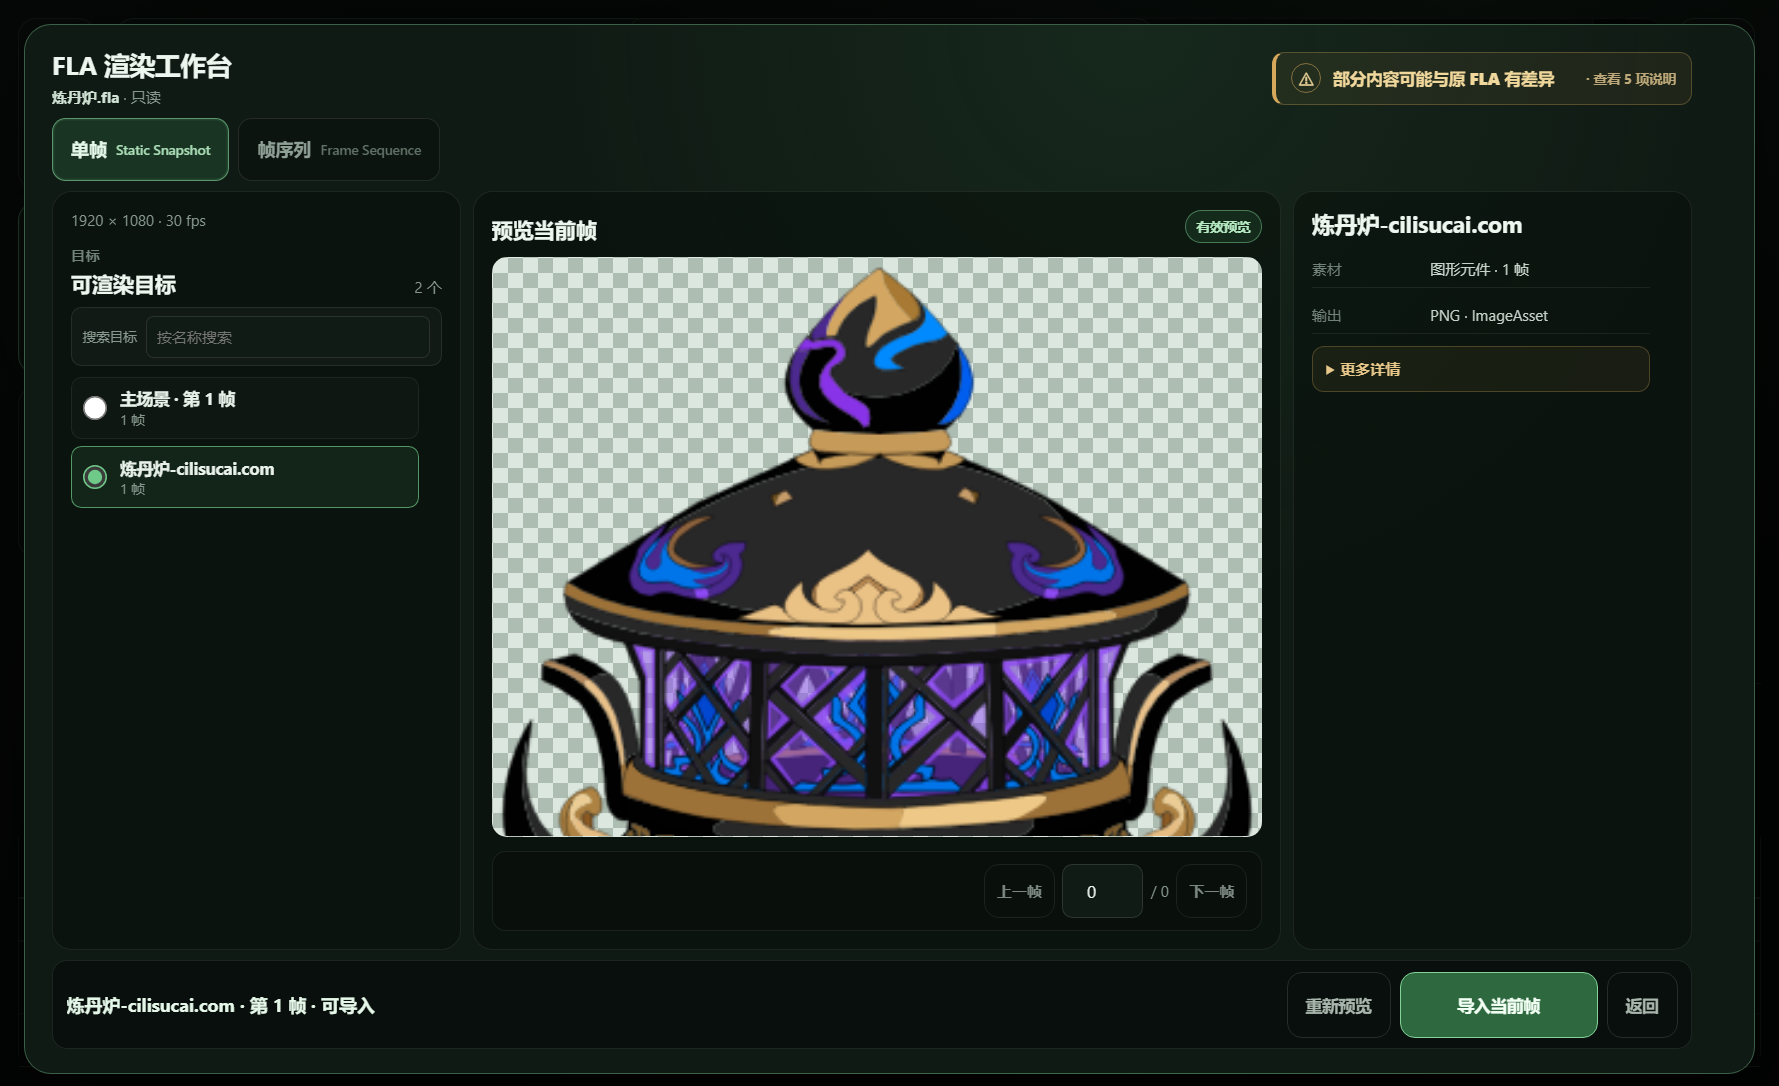
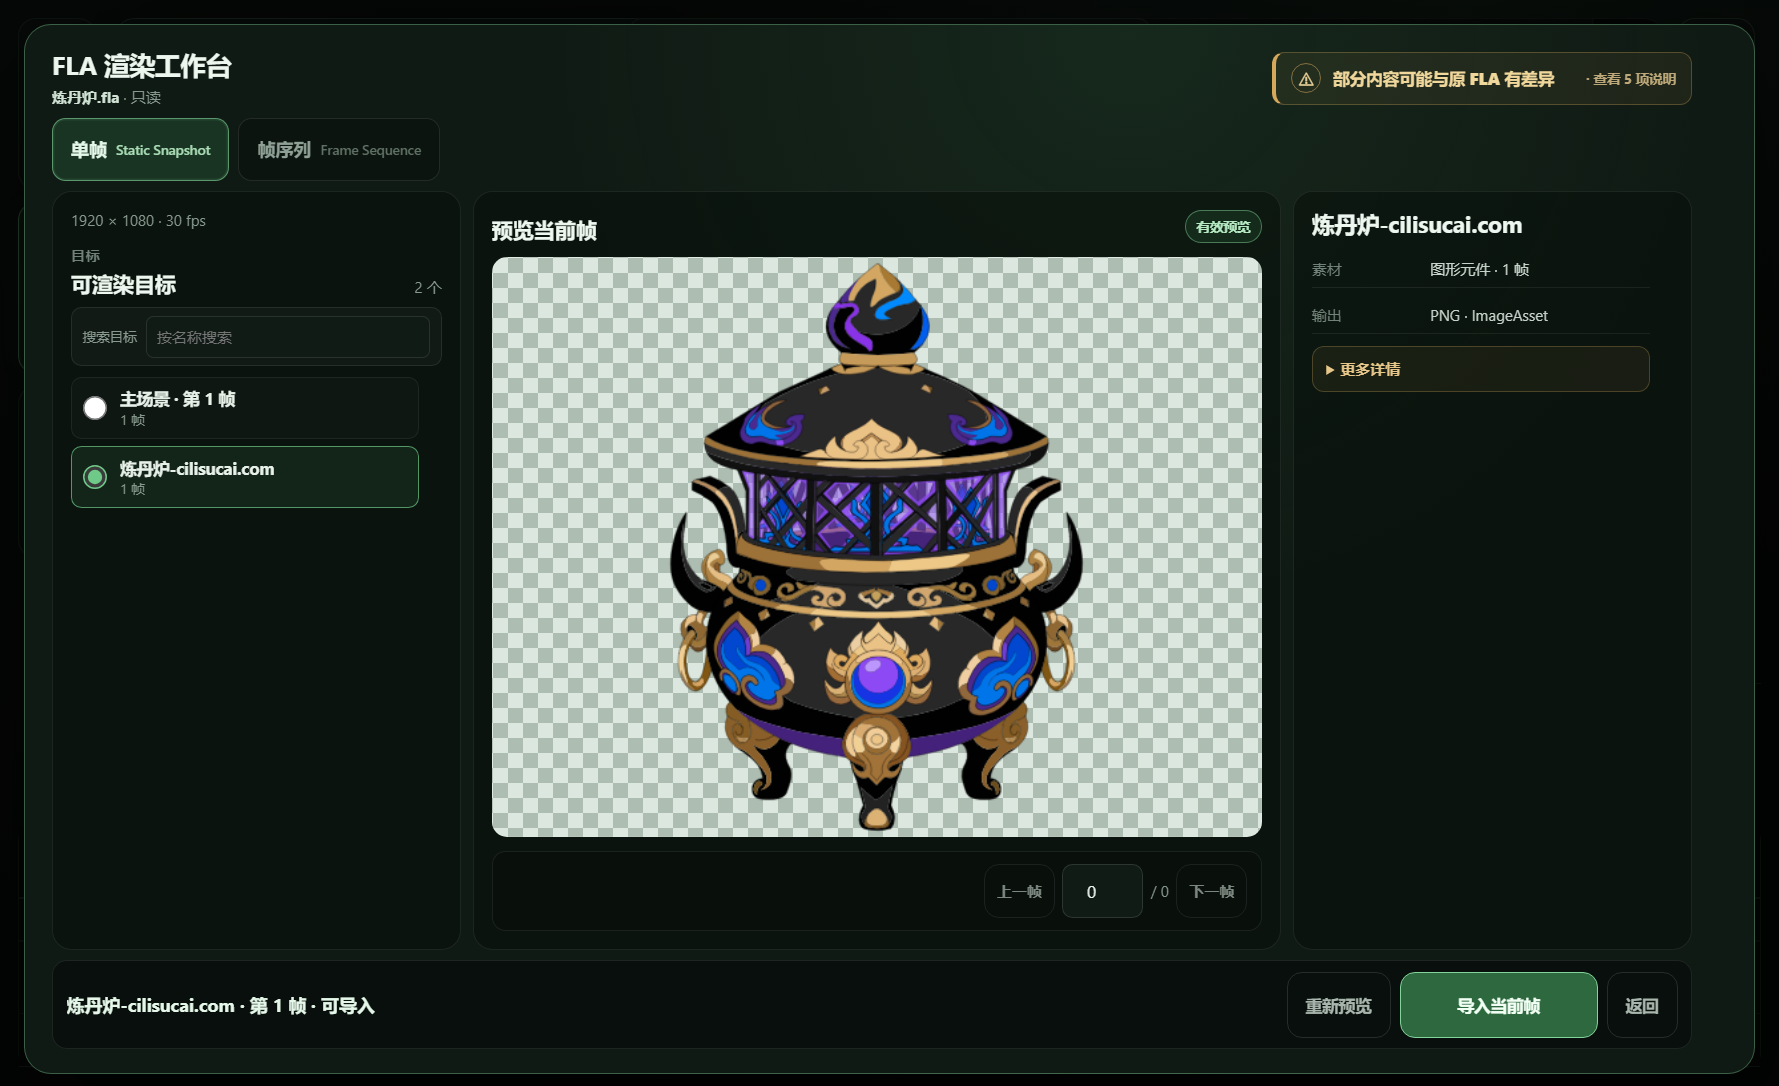
fix(fla): keep snapshot preview within stage

Changed region(s): [[0.2782, 0.2431, 0.7111, 0.7901]]

diff --git a/tests/unit/fla-stage-d-render-workbench.test.ts b/tests/unit/fla-stage-d-render-workbench.test.ts
@@ -88,5 +88,8 @@ describe('Issue #396 Stage D render workbench contract', () => {
     expect(styles).toMatch(
       /\.fla-snapshot-preview-stage\s*\{[\s\S]*?overflow:\s*hidden;/u,
     );
+    expect(styles).toMatch(
+      /\.fla-snapshot-preview-stage img\s*\{[\s\S]*?min-width:\s*0;[\s\S]*?min-height:\s*0;[\s\S]*?max-width:\s*100%;[\s\S]*?max-height:\s*100%;[\s\S]*?object-fit:\s*contain;/u,
+    );
   });
 });

diff --git a/src/renderer/styles/features/fla-import/render/s04-03--render-shell-and-snapshot-d.css b/src/renderer/styles/features/fla-import/render/s04-03--render-shell-and-snapshot-d.css
@@ -425,6 +425,10 @@
   display: block;
   width: 100%;
   height: 100%;
+  min-width: 0;
+  min-height: 0;
+  max-width: 100%;
+  max-height: 100%;
   object-fit: contain;
 }
 

diff --git a/docs/evidence/issue-751/README.md b/docs/evidence/issue-751/README.md
@@ -1,6 +1,6 @@
 # Issue #751 — V1/T01 acceptance evidence
 
-**Result: PARTIAL.** The accepted real FLA produced a supported Static Snapshot preview, was explicitly imported as an ordinary image asset, appeared in the Asset Library, and was dragged into the current shot with Windows mouse input. The project saved and reopened with the image still visible. `HUMAN VISUAL PASS` remains pending from the repository owner.
+**Result: PARTIAL.** Using the accepted real FLA, the existing Static Snapshot Workbench previewed it, explicit import created an ordinary image asset, the Asset Library showed it, and a Windows mouse drag placed it into the current shot; save/reopen retained the image. This acceptance flow used the test-only source-path injection. The native chooser-to-Workbench path remains unproven, and `HUMAN VISUAL PASS` remains pending from the repository owner.
 
 ## Run details
 
@@ -10,8 +10,9 @@
 - Cancellation: the new project remained at zero assets and its saved `project.json` hash did not change.
 - Import: the existing Static Snapshot transaction reported completion and added the PNG as an ordinary image asset. The imported asset appeared in the Asset Library.
 - Source selection used the test-only `PANDA_STAGE_FLA_ACCEPTANCE_SOURCE` injection, so the native file chooser itself was bypassed. The in-app Workbench, preview, explicit import, Asset Library, and project UI were exercised; no CLI or manual PNG copy was used to import the prop.
+- A separate no-injection run opened the Windows native chooser but did not deliver the source path to the Workbench. The automation process could not bring the chooser to the foreground or type into its filename field, and the harness timed out before the Workbench route appeared. Native chooser acceptance remains unproven.
 - Native placement used Win32 `SetCursorPos` and `mouse_event` from the Asset Library card to the canvas. The t06 project had zero layers before the drop and one layer afterward. It was saved, closed, reopened, and the furnace decoded and appeared on the canvas.
-- The selected artwork's preview screenshot shows its lower edge clipped by the Workbench preview stage. The imported asset and reopened canvas show the full furnace; owner review is needed to judge the preview presentation.
+- The earlier preview showed the lower edge clipped. The Workbench image's default grid minimum size let it exceed the preview stage. The feature-local CSS now constrains that image to the stage; a production Electron run measured the image element at 512 × 385.6 CSS px inside a 513.3 × 386.9 CSS px stage, and the full 318 × 435 source image is visible in the updated screenshot.
 - The older t04 receipt also records a synthetic `DragEvent` placement and a failed Electron `sendInputEvent` attempt. Those are historical attempts; the successful OS-level drag is recorded separately in t06 below.
 
 The machine-readable receipt is [receipt.json](./receipt.json). Temporary acceptance projects and runners remain outside the repository under `D:\PandaStage-Acceptance\issue751-v1-t04` and `D:\PandaStage-Acceptance\issue751-v1-t06`.
@@ -22,9 +23,9 @@ The machine-readable receipt is [receipt.json](./receipt.json). Temporary accept
 
 ![Static Snapshot catalog with two render targets](./01-static-snapshot-catalog.png)
 
-### Loaded preview before explicit import
+### Full preview before explicit import
 
-![Valid Static Snapshot preview for the furnace graphic symbol](./02-selected-prop-preview.png)
+![Complete furnace visible in the Static Snapshot preview before explicit import](./02-selected-prop-preview.png)
 
 ### Import transaction completion
 
@@ -46,7 +47,8 @@ The earlier `04-placed-in-shot.png` and `05-reopened-project.png` are retained a
 
 ## Validation
 
-- `pnpm test:integration` — **PASS**, 38 test files and 189 tests passed on 2026-10-10.
-- No production code changed for this evidence update. The integration run includes the repository's configured typecheck/build steps.
+- `pnpm test:integration` — **PASS**, 38 test files and 189 tests passed on 2026-10-10 before the preview CSS fix.
+- After the preview CSS fix, focused layout contracts passed (2 files / 8 tests), `pnpm exec eslint tests/unit/fla-stage-d-render-workbench.test.ts` passed, and `pnpm build` passed. Build output retained the repository's existing empty-CSS and large-chunk warnings.
+- The production change is limited to sizing the existing Workbench preview image; FLA parsing, import, asset transaction, and project persistence code did not change.
 - Existing raster/sequence behavior and rollback/history acceptance were not separately re-run as part of this focused vertical slice.
 - `HUMAN VISUAL PASS` remains pending from the repository owner.
